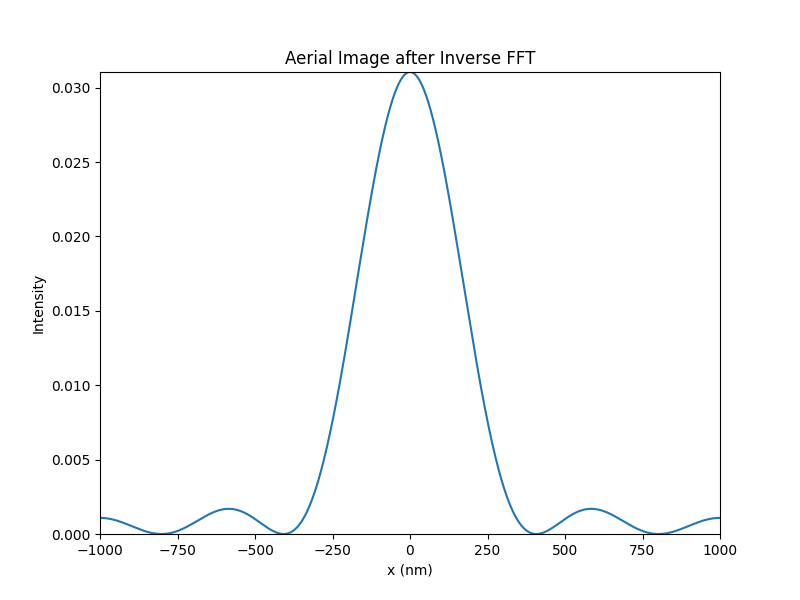
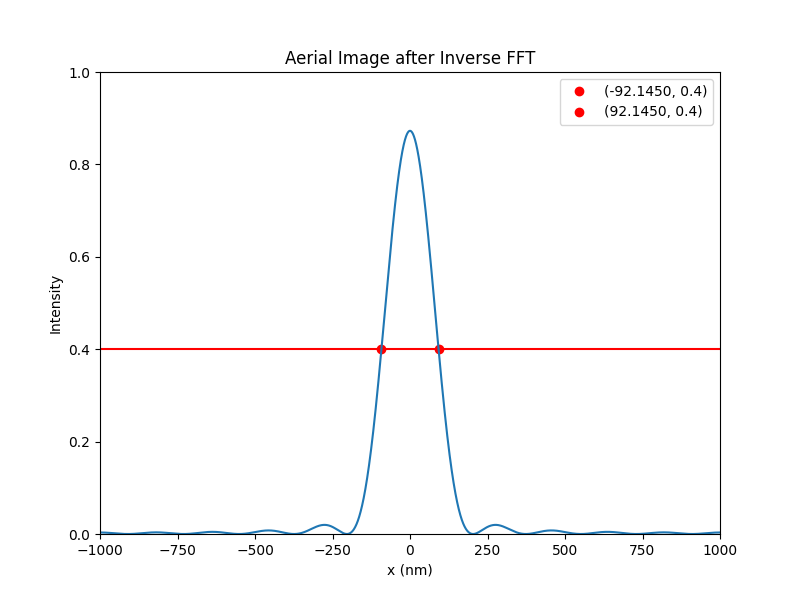
Changes to the Sampling
Remove unused function and the result is almost finished!
Just need to check the answer...

diff --git a/simulation1d.py b/simulation1d.py
@@ -32,7 +32,7 @@ def get_mask(x: npt.ArrayLike, width) -> npt.ArrayLike:
     """
     return np.where(np.abs(x) <= width, 1, 0)
 
-def get_plane_wave(x: npt.ArrayLike, magnitude: np.float128 = 10) -> npt.ArrayLike:
+def get_plane_wave(x: npt.ArrayLike, magnitude: np.float128 = 1) -> npt.ArrayLike:
     """
         Parameters:
             x (np.ndarray): a 1D array of x values
@@ -64,28 +64,7 @@ def generate_freq_from_xy(
     return x, y
 
 
-def generate_xy_from_freq(
-    E_out: npt.ArrayLike, 
-    size: int, 
-    Fs: int
-) -> Tuple[npt.ArrayLike, npt.ArrayLike]:
-    """
-        Parameters:
-            E_out (np.ndarray): a 1D array of y values
-            size (int): the size of the input space
-            Fs (int): the number of points in the sample
-
-        Returns:
-            x (np.ndarray): a 1D array of x values (x space)
-            y (np.ndarray): a 1D array of y values (value)
-    """
-    N = (size - 1) // 2
-    y = np.concatenate((E_out[N + 1:], E_out[:N + 1]))
-    x = get_x(N, Fs)
-    return x, y
-
-
-def plotTransformation(space: int = 1000, width: int = 100, Fs: int = 100):
+def plotTransformation(space: int = 1000, width: int = 100, Fs: int = 1000):
     """
         Plots the transformation of the plane wave
 
@@ -104,8 +83,7 @@ def plotTransformation(space: int = 1000, width: int = 100, Fs: int = 100):
     E_in, freq, E_out = plot1dFT(x, mask)
 
     # after aperture
-    cut = 0.0025
-    E_cut = plot1dCut(freq, E_out, cut)
+    E_cut = plot1dCut(freq, E_out)
 
     # inverse fft
     E_ifft = plot1dIFT(E_cut, x)
@@ -138,6 +116,8 @@ def plot1dMask(
     plt.ylabel('Magnitude')
     plt.xlim(-space, space)
     plt.ylim(0, 1.1)
+    plt.xticks(np.linspace(-space, space, 11))
+    plt.yticks(np.linspace(0, 2, 3))
     plt.plot(x, mask, '-')
     plt.savefig('./img/plot1dMask.png')
     plt.show()
@@ -175,7 +155,7 @@ def plot1dFT(
 def plot1dCut(
     freq: npt.ArrayLike, 
     E_out: npt.ArrayLike, 
-    cut: np.float128
+    cut: np.float128 = 0.005
 ) -> npt.ArrayLike:
     cond_cut = np.abs(freq) <= cut
     E_cut = np.where(cond_cut, E_out, 0)
@@ -206,7 +186,7 @@ def plot1dIFT(
 ) -> npt.ArrayLike:
     E_ifft = np.fft.ifft(E_cut)
     E = np.abs(E_ifft)
-    I = np.power(E, 2) / (2 * eta)
+    I = np.power(E, 2)
     # set up the plot
     y_max = np.max(I)
     x_max = np.max(x)
@@ -215,15 +195,19 @@ def plot1dIFT(
     plt.title('Aerial Image after Inverse FFT')
     plt.xlabel('x (nm)')
     plt.ylabel('Intensity')
-    plt.ylim(0, y_max)
+    plt.ylim(0, 1)
     plt.xlim(-x_max, x_max)
     plt.axline((-x_max, I_min), (x_max, I_min), color='red', linestyle='-')
+    x_temp = np.where(I >= I_min, x, 0)
+    plt.plot(np.min(x_temp), I_min, 'ro', label=f'({np.min(x_temp):.4f}, {I_min})')
+    plt.plot(np.max(x_temp), I_min, 'ro', label=f'({np.max(x_temp):.4f}, {I_min})')
     plt.plot(x, I, '-')
+    plt.legend()
     plt.savefig('./img/plot1dIFT.png')
     plt.show()
     return E_ifft
 
 
 if __name__ == '__main__':
-    space, width, Fs = 1000, 100, 100
+    space, width, Fs = 1000, 100, 1000
     plotTransformation(space, width, Fs)
